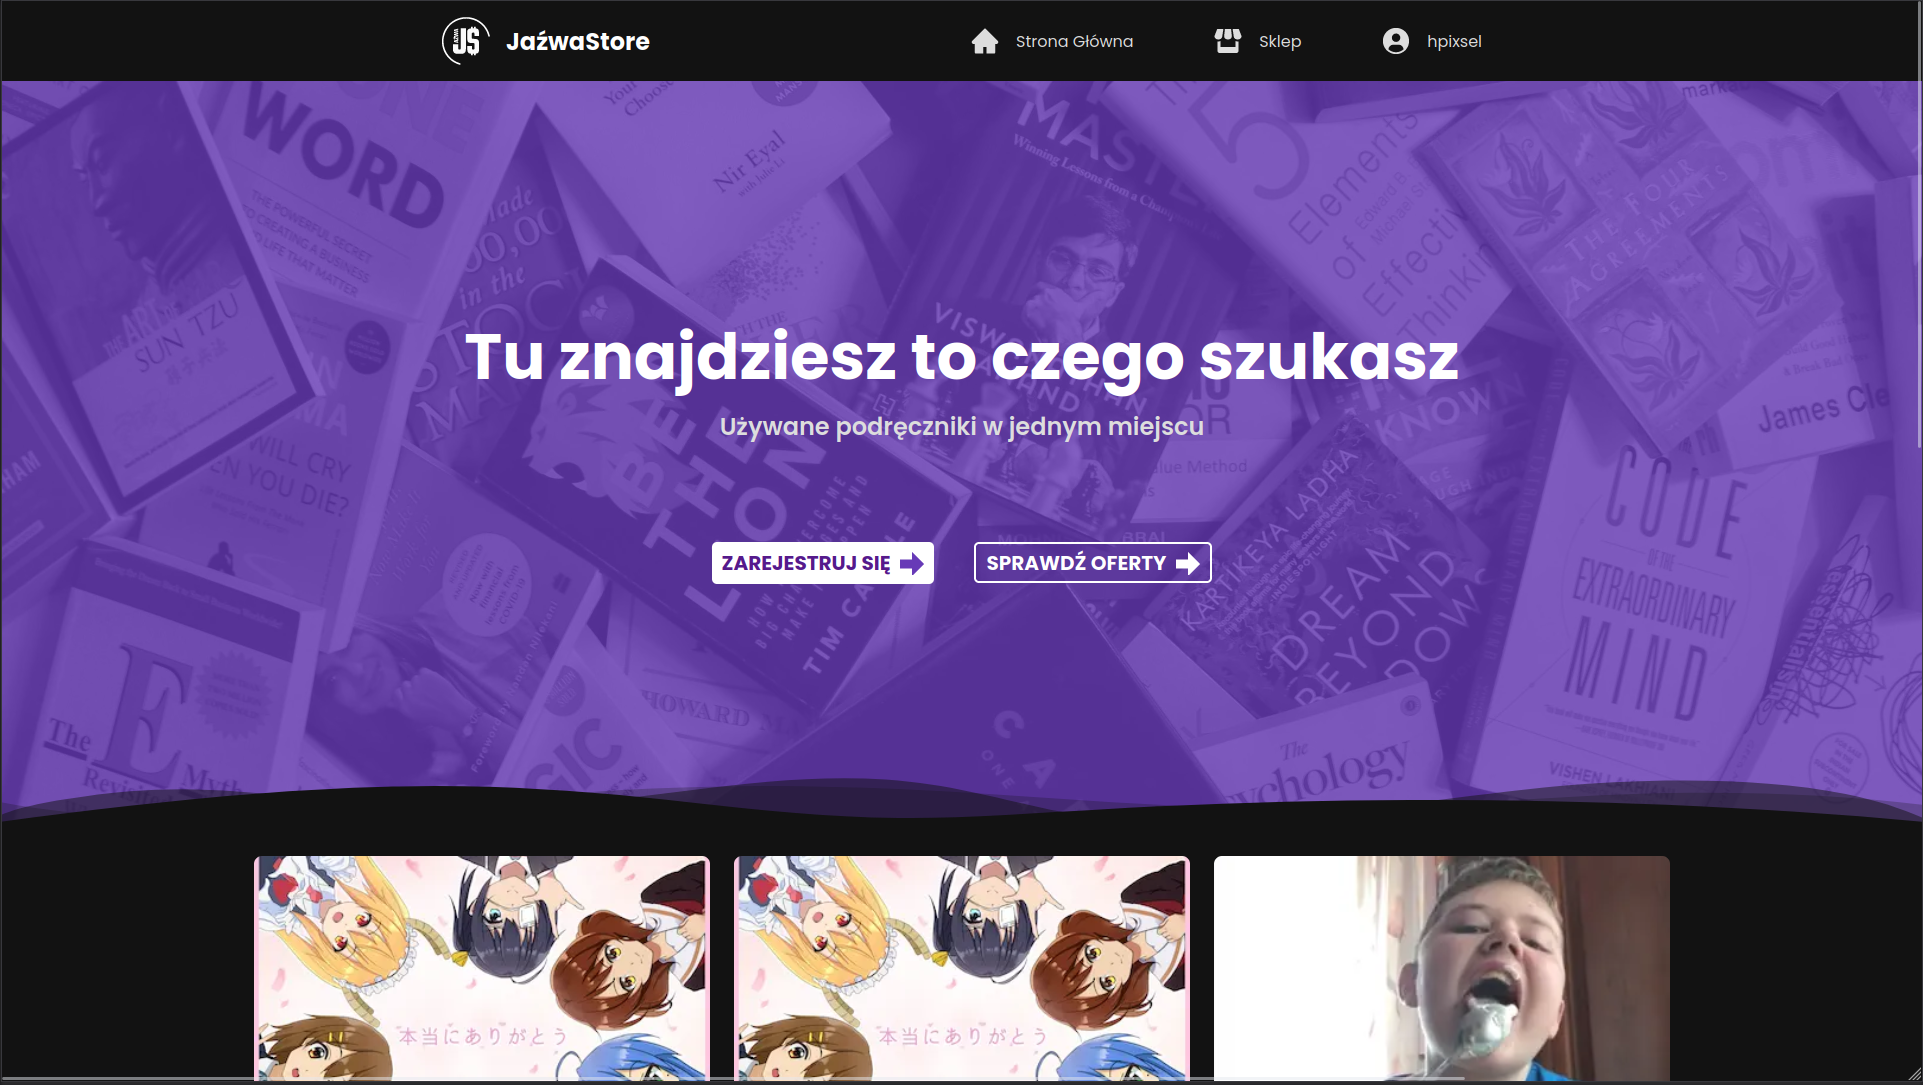
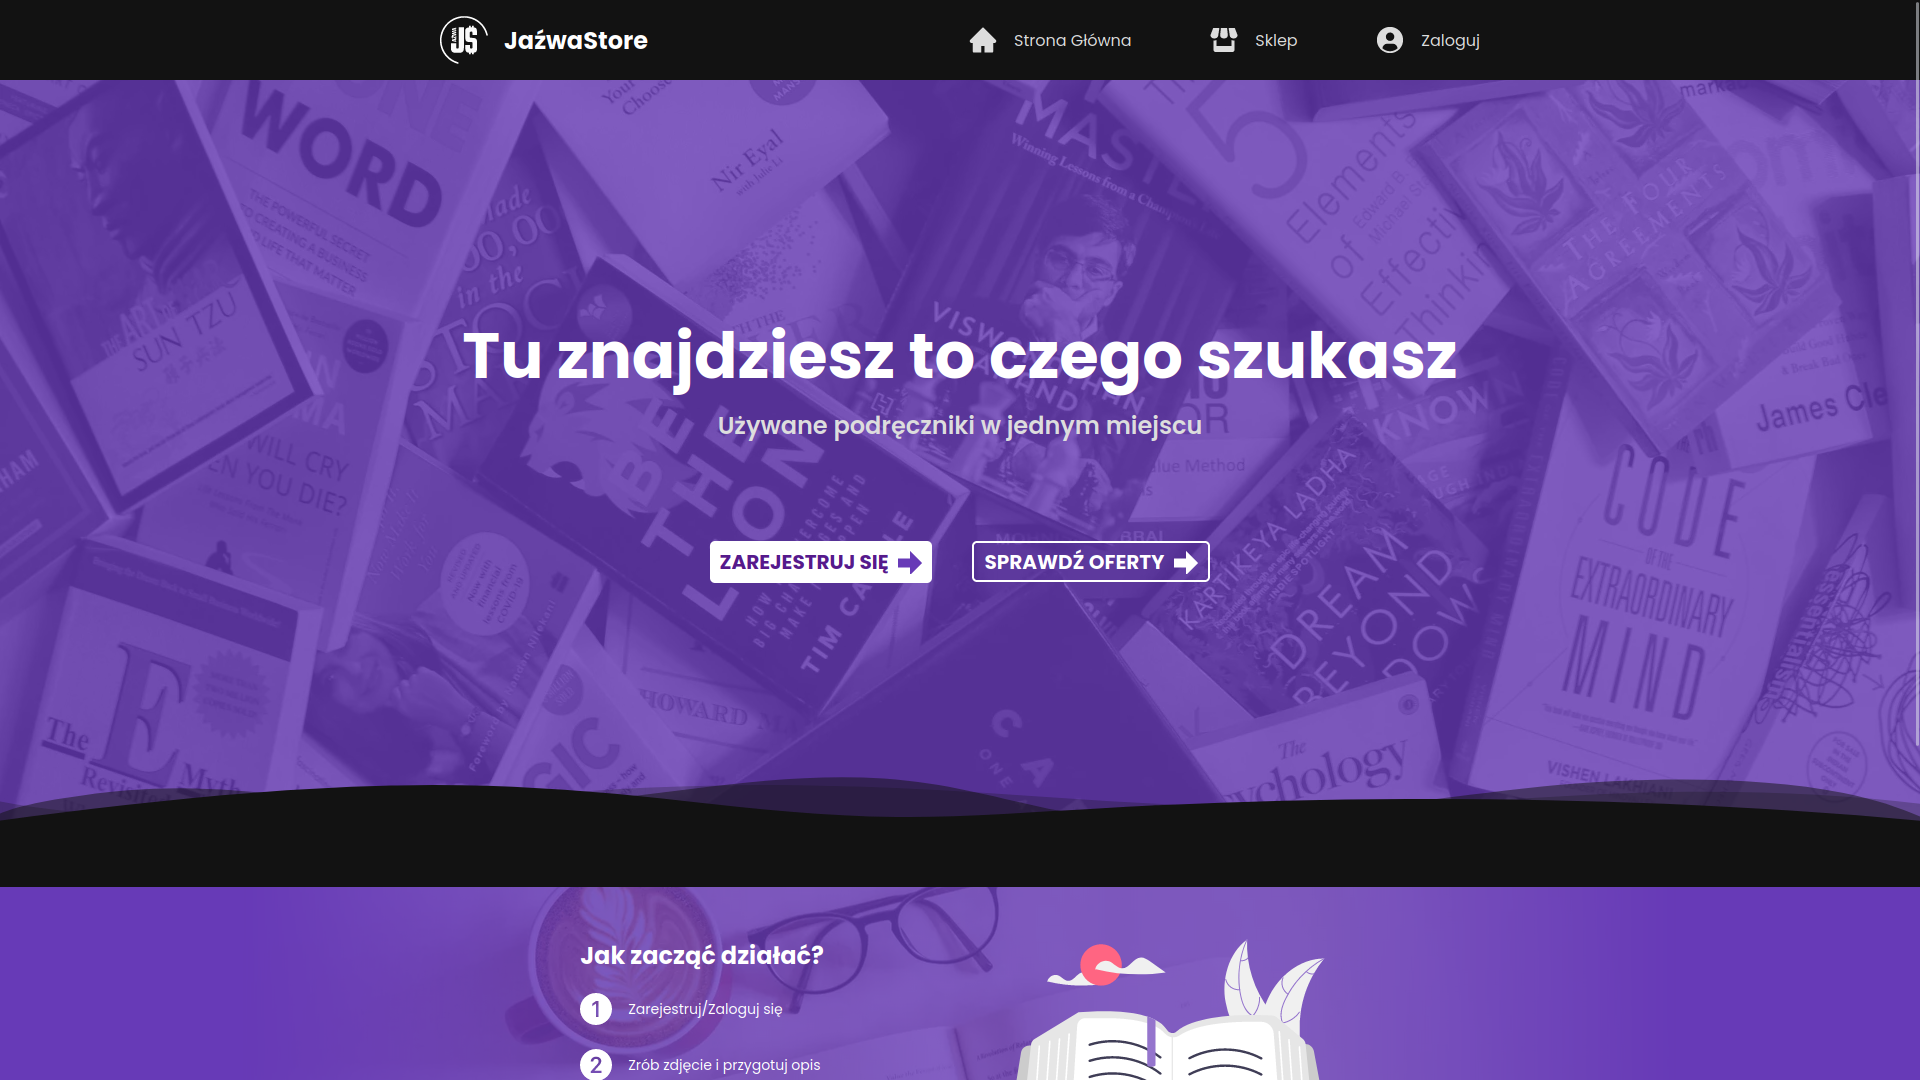
Readme Update

diff --git a/src/pages/index.js b/src/pages/index.js
@@ -10,9 +10,9 @@ export default function Home(props) {
     <>
       <Layout>
         <Hero />
-        <Suspense fallback={<div>Loading...</div>}>
+        {/* <Suspense fallback={<div>Loading...</div>}>
           {props.data && <Slider data={props.data} />}
-        </Suspense>
+        </Suspense> */}
         <Tutorial />
       </Layout>
     </>
@@ -20,7 +20,7 @@ export default function Home(props) {
 }
 
 
-export async function getServerSideProps() {
+/* export async function getServerSideProps() {
   try {
     const res = await axios.get(process.env.ENDPOINT)
     const data = res.data
@@ -36,4 +36,4 @@ export async function getServerSideProps() {
       props: {}
     }
   }
-}
+} */
